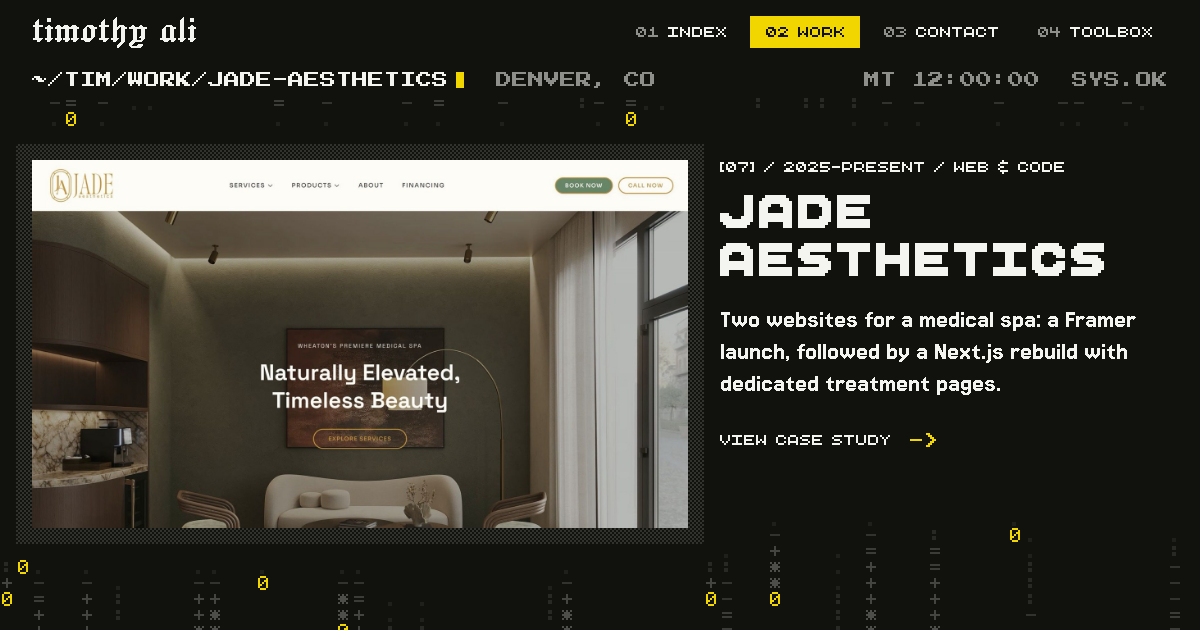
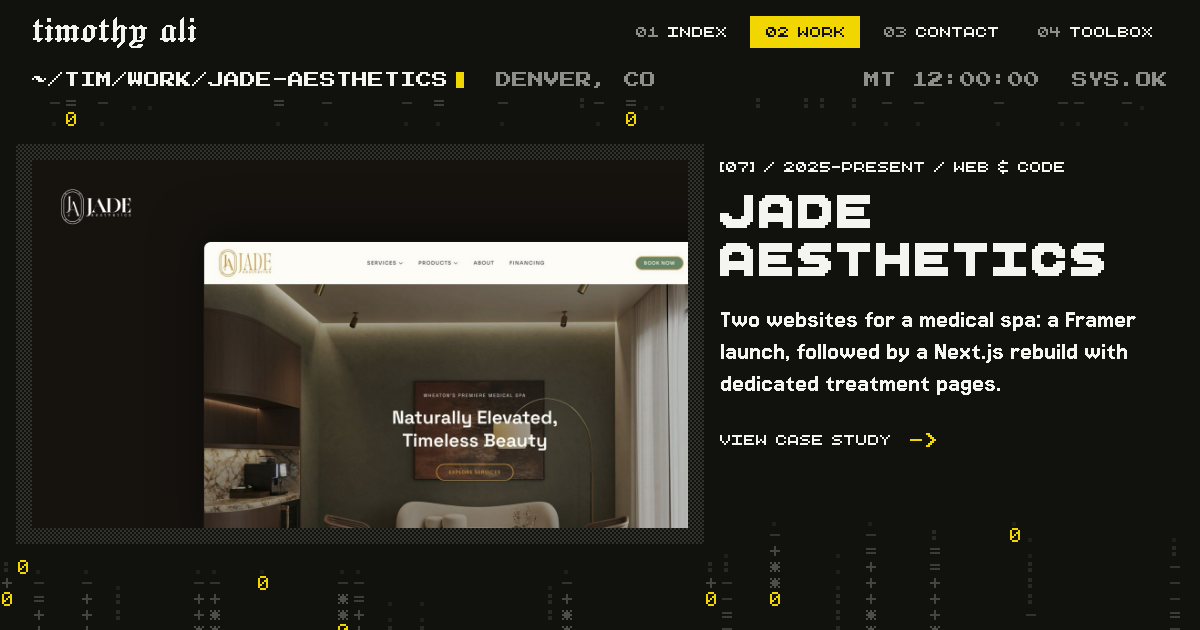
Jade Aesthetics cover in the product-cover treatment (PX-58)
Jade's cover is its homepage large on a dark ground under its white
lockup, rendered by tools/covers/generate.mjs; its study share image
regenerated. Shown the same treatment for the other five projects,
Timothy kept their existing covers.

Changed region(s): [[0.0, 0.2413, 0.5858, 0.8444]]

diff --git a/src/lib/work.ts b/src/lib/work.ts
@@ -432,7 +432,7 @@ const source: Source[] = [
     tools: 'Framer (V1), Next.js, Tailwind CSS, Vercel, Claude Code (V2)',
     live: { href: 'https://www.jadeaesthetics.co/', label: 'jadeaesthetics.co' },
     description: 'Two websites for a medical spa: a Framer launch, followed by a Next.js rebuild with dedicated treatment pages.',
-    cover: { src: '/work/jade-aesthetics.jpg', w: 1600, h: 900, alt: 'The Jade Aesthetics homepage: Naturally Elevated, Timeless Beauty over a photograph of the treatment lounge' },
+    cover: { src: '/work/jade-aesthetics/cover.png', w: 2880, h: 1620, alt: 'The Jade Aesthetics logo over its homepage: Naturally Elevated, Timeless Beauty over the treatment lounge' },
     lead: [
       "I designed and built two websites for Jade Aesthetics, a medical spa in Wheaton, Illinois. The first launched in Framer. When the practice needed individual treatment pages, I rebuilt it in Next.js, keeping the visual style I’d developed for the first site."
     ],

diff --git a/docs/iterations/pixel-v2/58-product-covers/README.md b/docs/iterations/pixel-v2/58-product-covers/README.md
@@ -9,3 +9,7 @@ Timothy: “i want to create better cover images for each project. especially po
 Covers are rendered by `node tools/covers/generate.mjs` at 2880×1620 (laid out at 1600×900, 1.8×) into `static/work/{sonde,pocketwatch,toolbox}/cover.png`; the logos are in `tools/covers/marks/` (Sonde's from its app, Pocketwatch's white lockup from its brand files), the screens are the site's own (Sonde's portfolio page, Pocketwatch's dashboard, Toolbox's home screen).
 
 Checks: `pnpm check` 0/0, 24 tests, build, `social:verify` PASS, grid audit 0 at every route and width, no page errors or broken images on Home and Work. The old covers (`static/work/sonde/account.png`, `static/work/pocketwatch/dashboard-cover.png`, `static/work/toolbox.png`) were no longer referenced and were deleted on his word on 2026-09-30.
+
+## The other six (2026-09-30)
+
+On “now do the covers for the other projects too”, the same treatment was made for PARC, Jade Aesthetics, First Ledger, xrp.cafe, FirstStrike and Do Androids Dream? (`other-six-before-after.jpg`: current left, proposed right). Timothy: “just use the new one for jade. all the others can keep the old ones.” Jade's cover is now its homepage under its white lockup on a dark ground (`static/work/jade-aesthetics/cover.png`, from `node tools/covers/generate.mjs jade-aesthetics`); the other five keep their covers, and the covers, logos and generator entries made for them are removed. `jade-aesthetics.jpg`, the old Jade cover, stays as the generator's source.

diff --git a/docs/iteration-log.md b/docs/iteration-log.md
@@ -705,3 +705,5 @@ Application-copy follow-up, second pass: on Timothy’s request, the private let
 On Timothy's request and his pick of direction B from three: the three product covers are now the app cropped large on its own dark ground under its logo (Sonde portfolio, Pocketwatch dashboard with its white lockup, Toolbox home screen), rendered by `node tools/covers/generate.mjs` at 2880×1620. The Work collage and the Sonde, Pocketwatch and Toolbox share images were regenerated; the share-image size manifest in `25-social-site/assets.json` now matches the files on disk. Checks: `pnpm check` 0/0, 24 tests, build, `social:verify` PASS, grid audit 0 everywhere, no page errors or broken images. Evidence in `docs/iterations/pixel-v2/58-product-covers/`. Committed and pushed on his word.
 
 PX-58, follow-up (2026-09-30): the three old covers (`static/work/sonde/account.png`, `static/work/pocketwatch/dashboard-cover.png`, `static/work/toolbox.png`), unreferenced since PX-58, deleted on his word (“delete the old covers”); they stay in git history.
+
+PX-58, the other six (2026-09-30): the same treatment was made for the other six projects; on his pick only Jade Aesthetics takes it (its homepage under its white lockup on a dark ground), and the other five keep their covers. The Jade study share image regenerated. Checks: `pnpm check` 0/0, 24 tests, build, `social:verify` PASS. Evidence in `docs/iterations/pixel-v2/58-product-covers/`. Committed and pushed on his word (2026-10-02).

diff --git a/docs/decision-log.md b/docs/decision-log.md
@@ -2026,3 +2026,4 @@ Seeing it, Timothy asked for “slightly darker”. Five candidates were rendere
 - **Implementation (PX-58):** each cover is the app cropped large by the frame on the product's dark ground with a faint glow of its colour, and its logo large top left: Sonde's portfolio page under its salmon mark and wordmark; Pocketwatch's dashboard under its white lockup for dark grounds; Toolbox's home screen under the yellow Jacquard wordmark. Rendered by `tools/covers/generate.mjs` at 2880×1620; the Work collage and the three study share images regenerated.
 - **Assistant proposals inside it:** the screens (Sonde's portfolio page replacing the account page, which showed an account with no transactions; Toolbox's home screen rather than Lockup, whose loaded logo is Pocketwatch's), the layout and glow, and the logo sizes.
 - **Status:** Direction Timothy's. Verified; committed and pushed on his word (“commit and push”) on 2026-09-30. Evidence in `docs/iterations/pixel-v2/58-product-covers/`.
+- **Extended, 2026-09-30:** on Timothy's “now do the covers for the other projects too”, the other six were made the same way; shown them, he chose: “just use the new one for jade. all the others can keep the old ones.” Jade's cover is its homepage under its white lockup on a dark ground; PARC, First Ledger, xrp.cafe, FirstStrike and Do Androids Dream? keep their covers. Committed and pushed on his word on 2026-10-02.

diff --git a/AGENTS.md b/AGENTS.md
@@ -102,3 +102,5 @@ PX-56 (2026-09-29, 0142): copy refinement on Timothy’s request for more natura
 PX-57 (2026-09-29, 0143): on Timothy's word the hero and invitation follow the scroll on the spring too (critically damped, so dissolves never run backwards); pushed with PX-56.
 
 PX-58 (2026-09-29, 0144): covers for Sonde, Pocketwatch and Toolbox are the app large on its own dark ground under its logo (Timothy's pick of direction B; Pocketwatch uses its white lockup for dark grounds), rendered by `node tools/covers/generate.mjs` into `static/work/<slug>/cover.png` at 2880×1620; the Work collage and three study share images regenerated. The old covers (`sonde/account.png`, `pocketwatch/dashboard-cover.png`, `work/toolbox.png`) were deleted on his word on 2026-09-30. Pushed on his word.
+
+PX-58, the other six (2026-09-30): shown the same cover treatment for the other six projects, Timothy kept it only for Jade Aesthetics (`static/work/jade-aesthetics/cover.png`, its homepage under its white lockup); PARC, First Ledger, xrp.cafe, FirstStrike and Do Androids Dream? keep their covers. `static/work/jade-aesthetics.jpg` stays as the generator's source. Pushed on his word 2026-10-02.
